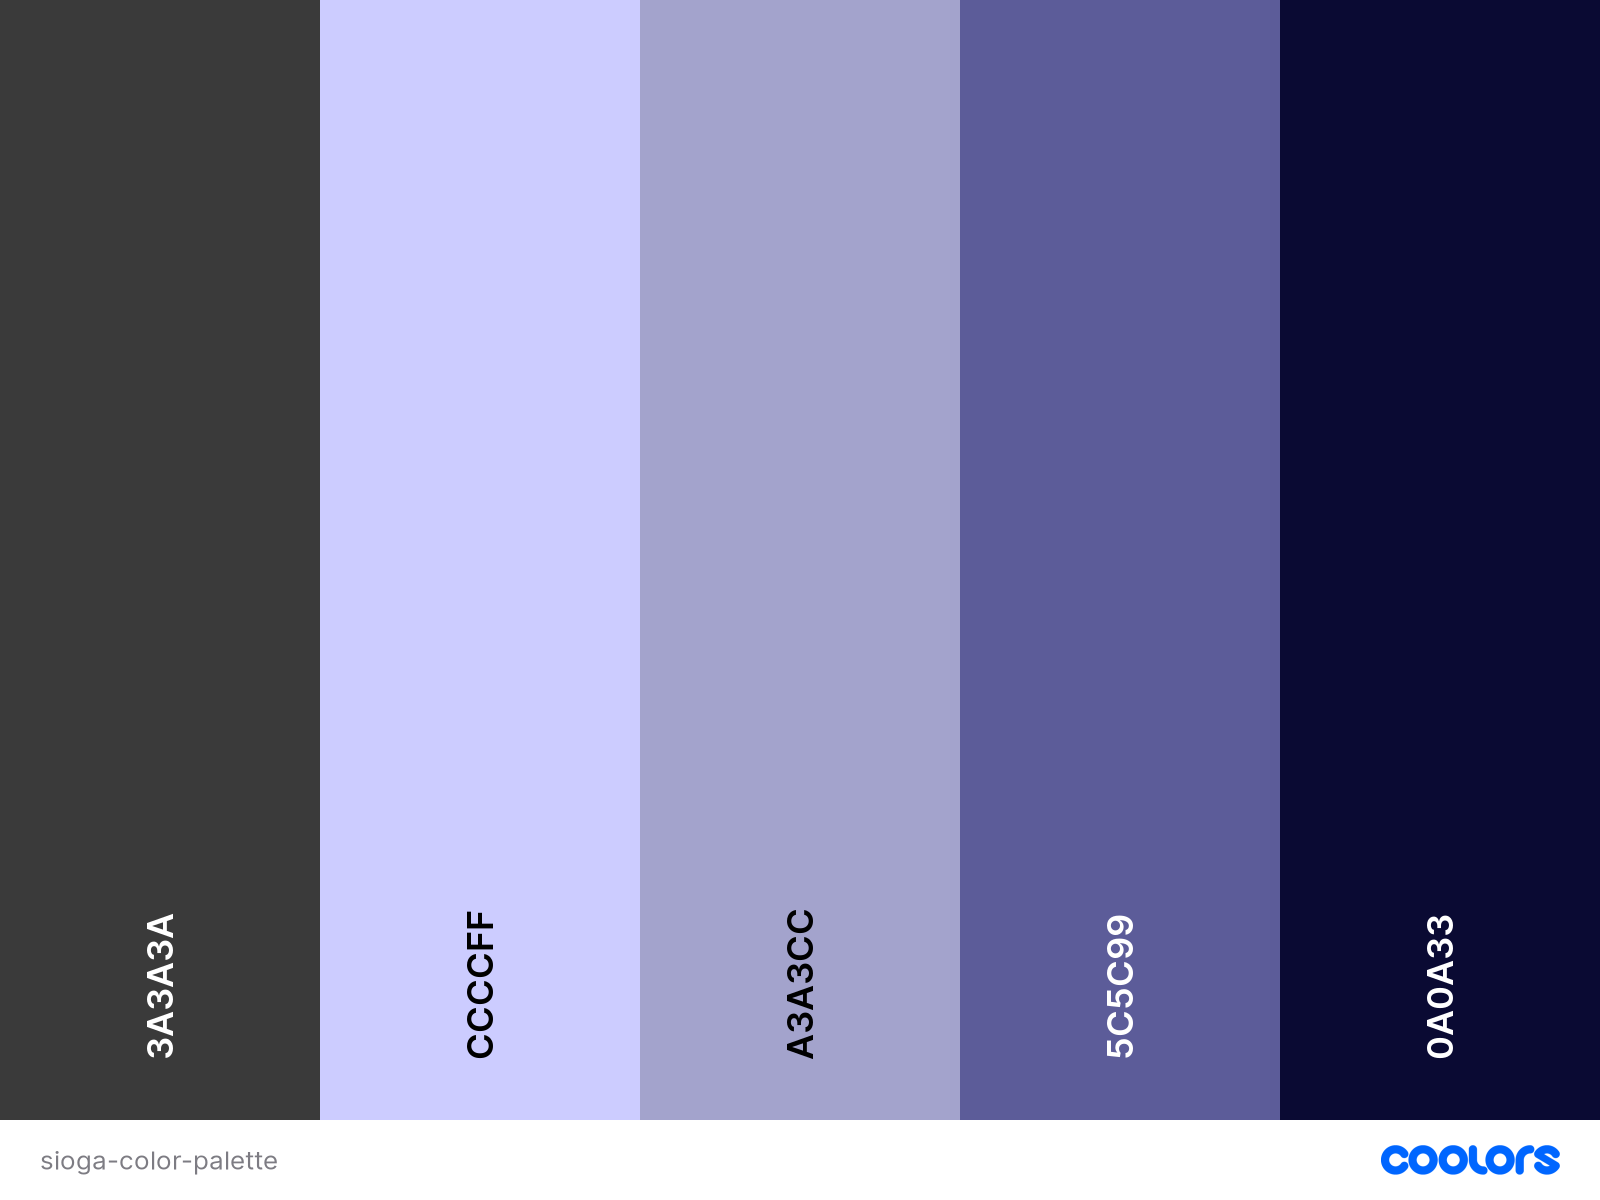
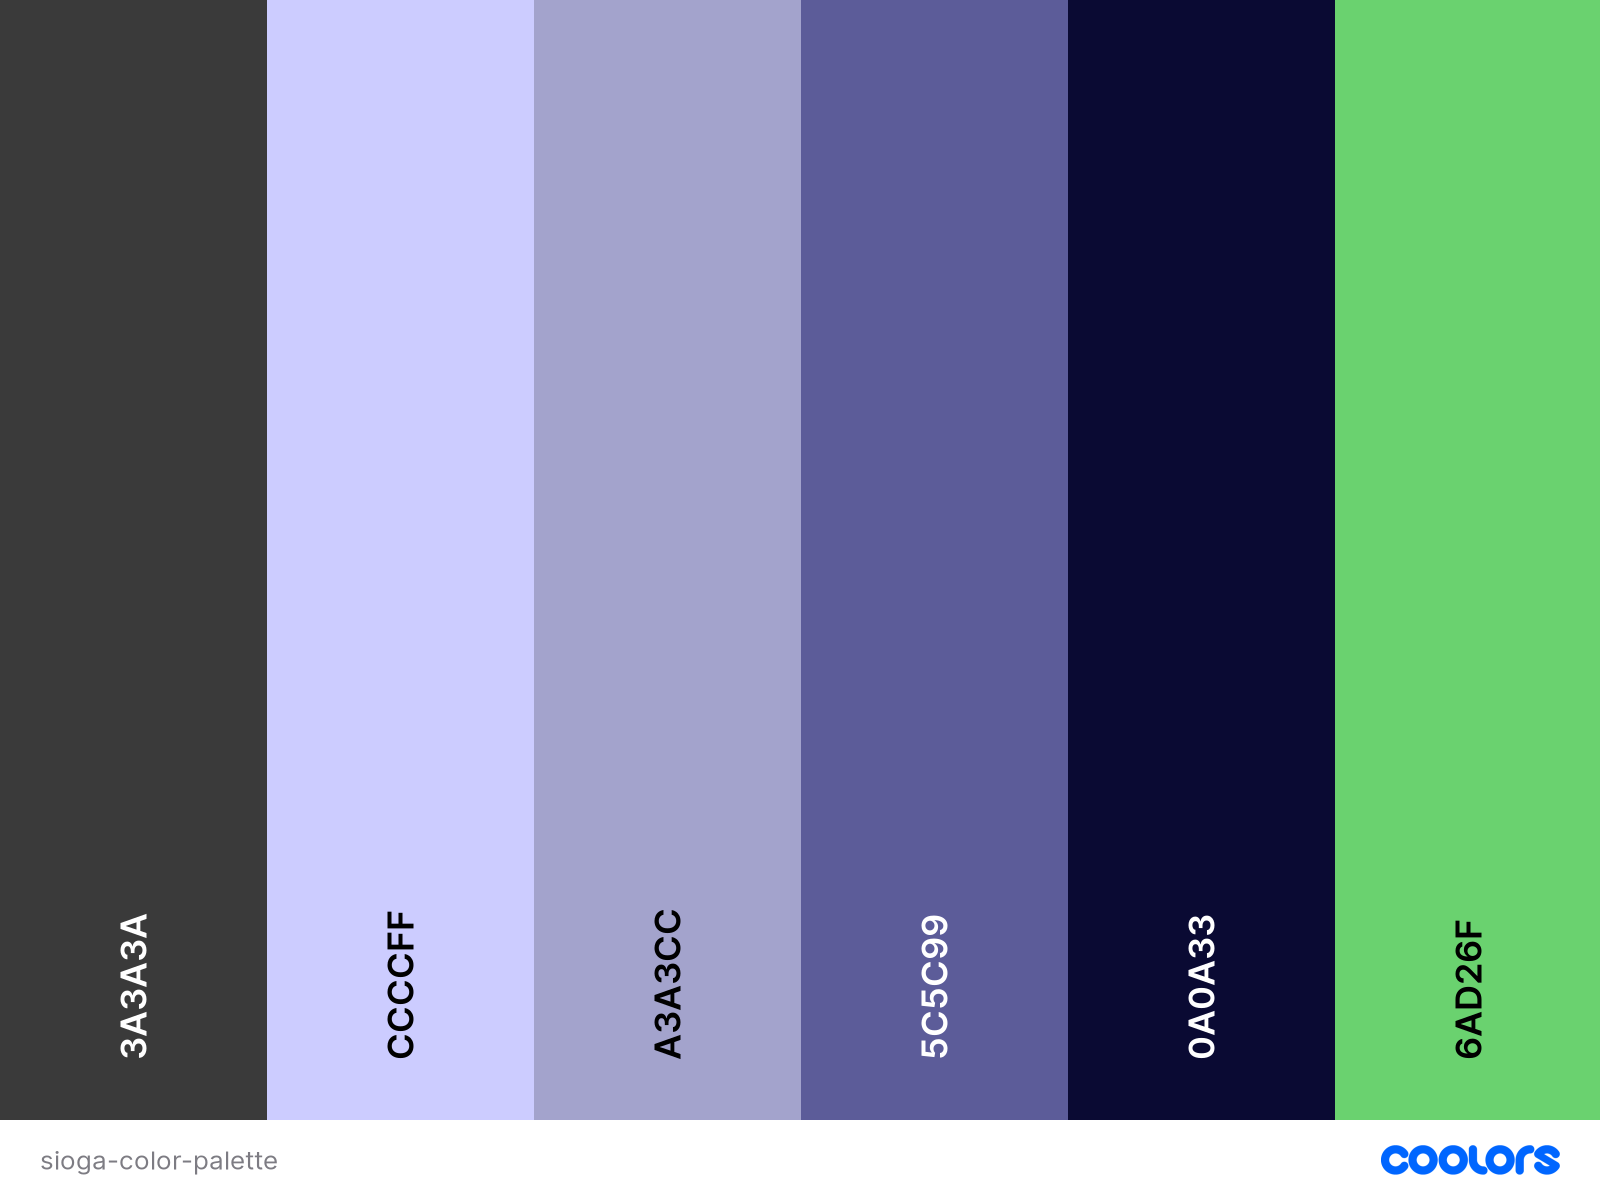
edit hex codes, add to colour scheme and typography in design section of readme

diff --git a/assets/css/style.css b/assets/css/style.css
@@ -15,13 +15,12 @@
      display: flex;
      flex-direction: column;
      /* Generic project styles */
-     color: #3a3a3a;
+     color: #333333;
  }
 /*  re-group h1, h2 and h3 styles */
  h1, h2, h3 {
      font-family: 'Ubuntu', sans-serif;
      letter-spacing: 2px;
-     color: #0A0A33;
  }
  /* might need to define p font size - will test when the content is coded
 p {
@@ -29,7 +28,7 @@ p {
 }
  /* Header */
  header {
-     background-color: #CCCCFF;
+     background-color: #ccccff;
      padding: 0 1rem;
      position: fixed;
      z-index: 99;
@@ -37,7 +36,7 @@ p {
      display: flex;
      justify-content: space-between;
      align-items: baseline;
-     box-shadow: 0 2px 2px #3a3a3a;
+     box-shadow: 0 2px 2px #333333;
  }
 
  header a {
@@ -56,17 +55,17 @@ p {
  }
 
  .active {
-     border-bottom: 1px solid #0A0A33;
+     border-bottom: 1px solid #000033;
  }
 
  /* Navbar styles with dropdown toggle */
  nav {
      position: absolute;
-     background-color: #CCCCFF;
+     background-color: #ccccff;
      width: 100%;
      left: 0;
      padding: 0 1rem;
-     box-shadow: 0 1px 2px #3a3a3a;
+     box-shadow: 0 1px 2px #333333;
      display: none;
      top: 100%
  }
@@ -93,7 +92,7 @@ p {
      /* Make main element take up the surplus space to push down the footer */
      flex: 1 0 auto;
      margin-top: 47px;
-     background-color: #A3A3CC;
+     background-color: #9999cc;
  }
 
  /* Hero Section */
@@ -105,9 +104,9 @@ p {
  }
 
  #cover-text {
-    color: #ffffff;
+    color: #ccccff;
     /* Set transparancy of background color with extra set of characters at the end of hex code*/
-    background-color: #5c5c99c0;
+    background-color: #333366;
     font-size: 130%;
     position: absolute;
     bottom: 30px;
@@ -128,7 +127,7 @@ p {
  #offerings-overlay {
     height: 500px;
     width: 100%;
-    background-color: #5c5c99c0;
+    background-color: #333366ab;
     position: relative;
  }
 
@@ -155,13 +154,13 @@ p {
  /* Timetable*/
 
  #timetable-heading {
-      background-color: #CCCCFF;
+      background-color: #ccccff;
       padding: 5px 10px;
-      box-shadow: 0 2px 2px #3a3a3a;
+      box-shadow: 0 2px 2px #333333;
   }
   
  #timetable {
-    background-color: #CCCCFF;
+    background-color: #ccccff;
     width: 100%;
     padding: 0px 10px;
     text-align: left;
@@ -178,7 +177,7 @@ p {
 textarea {
     width: 100%;
     padding: 12px;
-    border: 1px solid #ccc;
+    border: 1px solid #ccccff;
     border-radius: 4px;
     box-sizing: border-box;
     margin-top: 6px;
@@ -187,21 +186,21 @@ textarea {
 }
 
 .submit-button {
-    background-color: #0A0A33;
-    color: #CCCCFF;
+    background-color: #000033;
+    color: #ccccff;
     padding: 12px 20px;
     border: none;
     border-radius: 4px;
 }
 
 .submit-button:hover {
-    background-color: #6ad26f;
-    color: #0A0A33;
+    background-color: #66cc66;
+    color: #000033;
 }
 
 .forms {
     border-radius: 5px;
-    background-color: #5c5c99c0;
+    background-color: #333366ab;
     padding: 20px;
     width: 65%;
     margin: 10% auto;
@@ -224,7 +223,7 @@ textarea {
     left: 20px;
     padding-top: 40px;
     padding-left: 10px;
-    color:#0A0A33;
+    color:#000033;
 }
 
 .lists {
@@ -232,7 +231,7 @@ textarea {
 }
  /* Footer */
  #social-networks {
-    background-color: #A3A3CC;
+    background-color: #9999cc;
     text-align: center;
     padding: 20px 0;
     display: flex;
@@ -243,7 +242,7 @@ textarea {
  #social-networks i {
     font-size: 160%;
     padding: 5%;
-    color: #0A0A33;
+    color: #000033;
  }
 
  /* Larger than standard phones */
@@ -259,8 +258,8 @@ textarea {
          left: 20px;
          padding-top: 40px;
          padding-left: 10px;
-         color: #0A0A33;
-         background-color: rgba(92, 92, 153, .7);
+         color: #ccccff;
+         background-color: #333366ab;
      }
  }
 
@@ -312,6 +311,6 @@ textarea {
  /* Large devices (laptops and desktops, 992px and up) */
  @media screen and (min-width: 992px) {
      #menu a:hover {
-         border-bottom: 1px solid #0A0A33
+         border-bottom: 1px solid #000033
      }
  }

diff --git a/readme.md b/readme.md
@@ -78,34 +78,32 @@ Add optional [shields.io](https://shields.io) badges
 
 ### Colour Scheme
 
-Why?
+I used light to dark lavender-purples and greys to envoke a fresh feeling of gentle calm and because of it's psychological ties to growth and healing. For highlights I chose a bright invigorating green to energise while still promoting a sense of calm.
 
-Add all information about your colour scheme for your site here. You can explain why you choose the colours you did?
+![sioga-6-color-palette](/assets/images/sioga-color-palette.png "6 color palette of 'Onyx', 'Lavender Blue', 'Blue Bell', 'Liberty', 'Oxford Blue' and 'Mantis'")
 
-![sioga-color-palette](/assets/images/sioga-color-palette.png "5 color palette of 'Jet', 'Periwinkle', 'Cool gray', 'Ultra Violet', 'Oxford Blue' and 'Mantis'") Colour palette image from [coolors](https://coolors.co/)
+Though irrelevant today, I thought it would be interesting to limit myself to "websafe" hex colours to see if I could still create a palette that worked well. After chosing websafe alternatives, I decided I liked how the new colours interacted and decided to keep the adjustments.
 
-#### Hex Codes
-- 3a3a3a
-- ccccff
-- a3a3cc
-- 5c5c99c0
-- 0a0a33
-- 6ad26f
+#### Colour Accessibility
+
+I used the [contrast checker tool](https://webaim.org/resources/contrastchecker/) by [WebAIM](https://webaim.org/) to ensure my site did not cause eye strain and that it met the highest level of Web Content Accessibility Guidlines and only used combinatins of colours that passed entirely, or amending the hex code if needed.
+
+333366ab
+
+![WCAGPASS](/assets/images/webaim-contrast-passed.gif "web aim wcag pass tests") ![WCAGPASS](/assets/images/webaim-contrast-failed.gif "web aim wcag fail tests")
+
+![sioga-6-color-palette](/assets/images/sioga-websafe-palette.png "6 color websafe palette of 'Jet', 'Lavender Blue', 'Blue Bell', 'Space Cadet', 'Oxford Blue' and 'Mantis'")
 
 ### Typography
 
-![Comfortaa](/assets/images/comfortaa-google-fonts.png "Comfortaa")[Comfortaa](https://fonts.google.com/specimen/Comfortaa) imported from Google Fonts
+I chose [Comfortaa](https://fonts.google.com/specimen/Comfortaa) for general text and [Ubuntu](https://fonts.google.com/specimen/Ubuntu) for headings, and imported both from [Google Fonts](https://fonts.google.com/).
 
-![Ubuntu](/assets/images/ubuntu-google-fonts.png "Ubuntu")
-[Ubuntu](https://fonts.google.com/specimen/Ubuntu) imported from Google Fonts
+Both fonts are sans-serif and easy to read on-screen.
 
-Imported font info
+I wanted to use a font that had some small hint of how sanskrit script looks, but maintained strong web readability and felt crisp and contemporary. I found similarities in Ubuntu to handwritten sanskrit script such as the abrupt yet soft curves, and the slender yet somehow stocky visual created by the characters. I paired Comfortaa as a subtle contrast to add a lightness and softness that still captures a similar feeling.
 
-Why did you choose the font you have?
-Is this an accessibly friendly font?
-What weights have you included?
-
-Image of the fonts chosen as a reference from [Google Fonts](https://fonts.google.com/)
+![FontsLight](/assets/images/wordmarkit-googlefonts-previews-light.png "Comfortaa and Ubuntu dark on light Font Preview from wordmark.it")
+![FontsDark](/assets/images/wordmarkit-googlefonts-previews.png "Comfortaa and Ubuntu light on dark Font Preview from wordmark.it")
 
 ### Imagery
 
